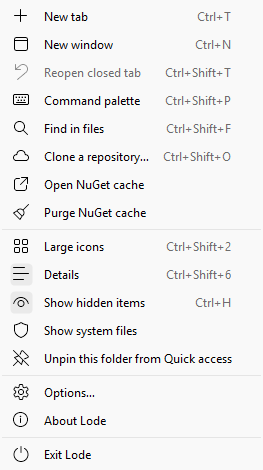
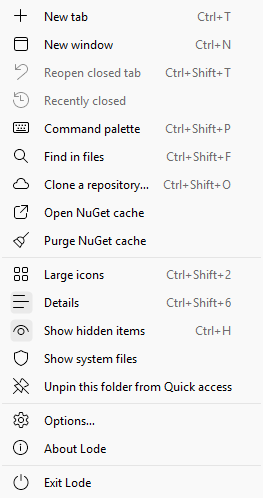
The tabs closed are one list for the whole of Lode, so Reopen closed tab (Ctrl+Shift+T) in any window brings back the tab closed most recently, in whichever window, into the window it is pressed in, and Recently closed, a submenu of the ⋯ menu and of a tab's right-click menu, lists them, the most re

diff --git a/src/Lode.Tests/Window/WindowsTests.cs b/src/Lode.Tests/Window/WindowsTests.cs
@@ -734,6 +734,108 @@ public class WindowsTests
         await Assert.That(form.CanReopenClosedTab).IsFalse();
     }
 
+    // The tabs closed are one list for every window: Ctrl+Shift+T in either brings back the one
+    // closed most recently, whichever window it was closed in, into the window it is pressed in.
+    [Test]
+    public async Task ClosedTabsReopenInAnyWindow()
+    {
+        using var fixture = Fixture.Create();
+        var settings = new Settings();
+        using var first = (QuietForm) await Show(fixture, settings, fixture.Root, fixture.At("Docs"));
+        using var second = (QuietForm) await Show(fixture, settings, fixture.Root, fixture.At("Source"));
+        first.CloseTab((TabPage) first.Views.Last().Parent!);
+        second.CloseTab((TabPage) second.Views.Last().Parent!);
+
+        first.Press(Keys.Control | Keys.Shift | Keys.T);
+        await Pump.Loaded(first.ActiveView!);
+        second.Press(Keys.Control | Keys.Shift | Keys.T);
+        await Pump.Loaded(second.ActiveView!);
+
+        await Assert.That(Titles(first)).IsEquivalentTo(["Projects", "Source"], CollectionOrdering.Matching);
+        await Assert.That(Titles(second)).IsEquivalentTo(["Projects", "Docs"], CollectionOrdering.Matching);
+        await Assert.That(first.CanReopenClosedTab).IsFalse();
+    }
+
+    // Recently closed, in the ⋯ menu and a tab's, lists the tabs closed in any window, the most
+    // recent first, each with its folder's icon. One picked opens again in the window whose menu
+    // it is, and leaves the list, wherever it was in it.
+    [Test]
+    public async Task RecentlyClosedListsTheTabsClosedNewestFirst()
+    {
+        using var fixture = Fixture.Create();
+        var settings = new Settings();
+        using var first = await Show(fixture, settings, fixture.Root, fixture.At("Docs"), fixture.At("Archive"));
+        using var second = await Show(fixture, settings, fixture.Root, fixture.At("Source"));
+        first.CloseTab(PageShowing(first, "Docs"));
+        second.CloseTab(PageShowing(second, "Source"));
+        first.CloseTab(PageShowing(first, "Archive"));
+
+        var inMenu = RecentlyClosedIn(first);
+        List<string> inTabMenu;
+        bool withIcons;
+        using (var tabMenu = second.TabMenu(second.Tabs.TabPages[0]))
+        {
+            var submenu = tabMenu.Items.OfType<ToolStripMenuItem>().Single(_ => _.Text == "Recently closed");
+            inTabMenu = submenu.DropDownItems.Cast<ToolStripItem>().Select(_ => _.Text!).ToList();
+            withIcons = submenu.DropDownItems.Cast<ToolStripItem>().All(_ => _.Image != null);
+        }
+
+        first.Commands.Menu()
+            .Single(_ => _?.Text == "Recently closed")!
+            .Children!
+            .Single(_ => _?.Text == "Source")!
+            .Action();
+        await Pump.Loaded(first.ActiveView!);
+
+        await Assert.That(inMenu).IsEquivalentTo(["Archive", "Source", "Docs"], CollectionOrdering.Matching);
+        await Assert.That(inTabMenu).IsEquivalentTo(["Archive", "Source", "Docs"], CollectionOrdering.Matching);
+        await Assert.That(withIcons).IsTrue();
+        await Assert.That(Titles(first)).IsEquivalentTo(["Projects", "Source"], CollectionOrdering.Matching);
+        await Assert.That(RecentlyClosedIn(second)).IsEquivalentTo(["Archive", "Docs"], CollectionOrdering.Matching);
+    }
+
+    // A window closed keeps its tabs as closed, in their order, so another window can bring them
+    // back, as does one closed by closing its last tab. Not one hidden in the tray, which keeps
+    // them, to come back with.
+    [Test]
+    public async Task ClosingAWindowKeepsItsTabsAsClosed()
+    {
+        using var fixture = Fixture.Create();
+        var settings = new Settings();
+        using var staying = await Show(fixture, settings, fixture.Root);
+        var closing = await Show(fixture, settings, fixture.At("Docs"), fixture.At("Source"));
+        var lastTabClosing = await Show(fixture, settings, fixture.At("Archive"));
+
+        closing.Close();
+        lastTabClosing.CloseTab(lastTabClosing.Tabs.TabPages[0]);
+        Application.DoEvents();
+        var kept = RecentlyClosedIn(staying);
+        MainForm.HideLastWindowOnClose = true;
+        try
+        {
+            staying.Close();
+        }
+        finally
+        {
+            MainForm.HideLastWindowOnClose = false;
+        }
+
+        await Assert.That(kept).IsEquivalentTo(["Archive", "Source", "Docs"], CollectionOrdering.Matching);
+        await Assert.That(lastTabClosing.IsDisposed).IsTrue();
+        await Assert.That(staying.Visible).IsFalse();
+        await Assert.That(RecentlyClosedIn(staying)).IsEquivalentTo(["Archive", "Source", "Docs"], CollectionOrdering.Matching);
+    }
+
+    static TabPage PageShowing(MainForm form, string name) =>
+        (TabPage) form.Views.Single(_ => Path.GetFileName(_.CurrentPath) == name).Parent!;
+
+    static List<string> RecentlyClosedIn(MainForm form) =>
+        form.Commands.Menu()
+            .Single(_ => _?.Text == "Recently closed")!
+            .Children!
+            .Select(_ => _!.Text)
+            .ToList();
+
     // With closing unused tabs on, a tab not looked at for the hours given closes, the one looked
     // at longest ago first, so Reopen closed tab brings back the other first. The tab the window
     // shows stays however long it has shown, and one opened in the background has the hours from
@@ -2123,6 +2225,7 @@ public class WindowsTests
                   New tab,
                   New window,
                   Reopen closed tab (disabled),
+                  Recently closed (disabled),
                   Command palette,
                   Find in files,
                   Clone a repository…,
@@ -2247,7 +2350,8 @@ public class WindowsTests
                     Close tabs to the right,
                     Close all tabs,
                     ----,
-                    Reopen closed tab (disabled)
+                    Reopen closed tab (disabled),
+                    Recently closed (disabled)
                   ],
                   notPinned: [
                     Duplicate tab,
@@ -2259,7 +2363,8 @@ public class WindowsTests
                     Close tabs to the right (disabled),
                     Close all tabs,
                     ----,
-                    Reopen closed tab (disabled)
+                    Reopen closed tab (disabled),
+                    Recently closed (disabled)
                   ]
                 }
                 """);

diff --git a/src/Lode/Window/MainForm.cs b/src/Lode/Window/MainForm.cs
@@ -51,10 +51,6 @@ class MainForm : Form
     // one when the window closes.
     Updates updates = Updates.Instance;
 
-    // Folders of tabs closed in this window, most recent last, for Ctrl+Shift+T.
-    List<string> closedTabs = [];
-    const int maximumClosedTabs = 20;
-
     // False for a window opened from another: it is placed beside that one rather than where
     // the last window to close was.
     bool restoreBounds = true;
@@ -847,6 +843,8 @@ class MainForm : Form
         }
     }
 
+    // Kept for every window's Reopen closed tab, not this one's alone. Find Results and the Diff
+    // tab have no folder to open again.
     void RememberClosed(TabPage page)
     {
         if (page.Controls.OfType<FolderView>().FirstOrDefault() is not { } view)
@@ -854,30 +852,51 @@ class MainForm : Form
             return;
         }
 
-        closedTabs.Add(view.CurrentPath);
-        if (closedTabs.Count > maximumClosedTabs)
+        settings.ClosedTabs.Add(view.CurrentPath);
+    }
+
+    // Closed for good, rather than hidden in the tray, from where it comes back as it was: its
+    // tabs are kept as closed, in their order, the last the most recent, as Close all tabs keeps
+    // them, so Ctrl+Shift+T in another window brings them back. None for a window whose last tab
+    // was dragged to another, which has none left.
+    protected override void OnFormClosed(FormClosedEventArgs args)
+    {
+        base.OnFormClosed(args);
+        foreach (var page in TabPages)
         {
-            closedTabs.RemoveAt(0);
+            RememberClosed(page);
         }
     }
 
-    internal bool CanReopenClosedTab => closedTabs.Count > 0;
+    internal bool CanReopenClosedTab => settings.ClosedTabs.Any;
 
     /// <summary>
-    /// Opens the most recently closed tab again, at the folder it was showing, or, where that
-    /// has gone since, the nearest folder above it still there, as a tab whose folder is
-    /// deleted goes to. Somewhere on the network is taken on trust, as asking after it could
-    /// keep the window waiting.
+    /// Opens the tab closed most recently, in any window, again in this one: see
+    /// <see cref="ReopenClosedTab(ClosedTab)"/>.
     /// </summary>
     internal void ReopenClosedTab()
     {
-        if (closedTabs.Count == 0)
+        if (settings.ClosedTabs.TakeLast() is { } last)
         {
-            return;
+            Reopen(last);
         }
+    }
 
-        var path = closedTabs[^1];
-        closedTabs.RemoveAt(closedTabs.Count - 1);
+    /// <summary>
+    /// Opens <paramref name="tab"/> again in this window, picked from Recently closed, at the
+    /// folder it was showing, or, where that has gone since, the nearest folder above it still
+    /// there, as a tab whose folder is deleted goes to. Somewhere on the network is taken on
+    /// trust, as asking after it could keep the window waiting.
+    /// </summary>
+    internal void ReopenClosedTab(ClosedTab tab)
+    {
+        settings.ClosedTabs.Take(tab);
+        Reopen(tab);
+    }
+
+    void Reopen(ClosedTab tab)
+    {
+        var path = tab.Folder;
         if (!Locations.IsRemote(path) &&
             FolderView.NearestFolder(path) is { } nearest)
         {
@@ -885,6 +904,23 @@ class MainForm : Form
         }
 
         AddTab(path, true, intoZip: true);
+    }
+
+    /// <summary>
+    /// What Recently closed lists, in the ⋯ menu and a tab's: the tabs closed in any window, the
+    /// most recent first, each named as its tab was, told apart from another of the same name,
+    /// with its folder's icon, and opening it again here.
+    /// </summary>
+    internal List<QuickMenu.Command?> RecentlyClosed()
+    {
+        var closed = settings.ClosedTabs.NewestFirst();
+        var labels = Locations.Labels(closed.Select(_ => _.Folder));
+        return closed
+            .Select(_ => (QuickMenu.Command?) new QuickMenu.Command(labels[_.Folder], () => ReopenClosedTab(_))
+            {
+                ShellIcon = TabIcon(_.Folder)
+            })
+            .ToList();
     }
 
     static MainForm? WindowOf(Control? control) =>
@@ -1673,7 +1709,28 @@ class MainForm : Form
         menu.Items.Add("Close all tabs", null, (_, _) => CloseAllTabs());
         menu.Items.Add(new ToolStripSeparator());
         menu.Items.Add(new ToolStripMenuItem("Reopen closed tab", null, (_, _) => ReopenClosedTab()) { Enabled = CanReopenClosedTab, ShortcutKeyDisplayString = "Ctrl+Shift+T" });
+        menu.Items.Add(RecentlyClosedItem(menu));
         return menu;
+    }
+
+    // Recently closed as a submenu of a menu built from items, as the tab's is, run as clicked
+    // as its other items are, the icons drawn for it let go of with the menu.
+    ToolStripMenuItem RecentlyClosedItem(ToolStripDropDown menu)
+    {
+        var item = new ToolStripMenuItem("Recently closed");
+        var images = new List<Image>();
+        var iconSize = menu.LogicalToDeviceUnits(16);
+        item.DropDown.ImageScalingSize = new(iconSize, iconSize);
+        QuickMenu.AddItems(item.DropDownItems, RecentlyClosed(), _ => _(), iconSize, images);
+        item.Enabled = item.DropDownItems.Count > 0;
+        menu.Disposed += (_, _) =>
+        {
+            foreach (var image in images)
+            {
+                image.Dispose();
+            }
+        };
+        return item;
     }
 
     // As Find Results shows: what was found so far in the status bar, and none of what is a

diff --git a/src/Lode/Window/ClosedTabs.cs b/src/Lode/Window/ClosedTabs.cs
@@ -1,0 +1,62 @@
+/// <summary>
+/// The tabs closed while Lode runs, in any window, for Reopen closed tab (Ctrl+Shift+T) and the
+/// Recently closed submenu to bring back in whichever window they are asked in: a tab closed,
+/// one closed as unused, and those of a window closed, its last tab say. One list for every
+/// window, as it is kept with the settings they share (see <see cref="Settings.ClosedTabs"/>),
+/// and not saved: Lode keeps running in the tray, and a start opens the tabs that were open
+/// rather than those closed before.
+/// </summary>
+sealed class ClosedTabs
+{
+    const int maximumKept = 20;
+
+    // Most recent last.
+    List<ClosedTab> tabs = [];
+
+    public void Add(string folder)
+    {
+        tabs.Add(new(folder));
+        if (tabs.Count > maximumKept)
+        {
+            tabs.RemoveAt(0);
+        }
+    }
+
+    public bool Any => tabs.Count > 0;
+
+    /// <summary>
+    /// The tabs kept, the most recently closed first, as the submenu lists them.
+    /// </summary>
+    public List<ClosedTab> NewestFirst() =>
+        tabs.AsEnumerable().Reverse().ToList();
+
+    /// <summary>
+    /// The most recently closed, no longer kept, or null with none.
+    /// </summary>
+    public ClosedTab? TakeLast()
+    {
+        if (tabs.Count == 0)
+        {
+            return null;
+        }
+
+        var last = tabs[^1];
+        tabs.RemoveAt(tabs.Count - 1);
+        return last;
+    }
+
+    /// <summary>
+    /// <paramref name="tab"/>, reopened from the submenu, no longer kept.
+    /// </summary>
+    public void Take(ClosedTab tab) =>
+        tabs.Remove(tab);
+}
+
+/// <summary>
+/// A tab closed, by the folder it showed. Each closing is one of its own, a folder closed twice
+/// being two, so one reopened from the submenu is the one picked.
+/// </summary>
+sealed class ClosedTab(string folder)
+{
+    public string Folder => folder;
+}

diff --git a/src/Lode/Options/Settings.cs b/src/Lode/Options/Settings.cs
@@ -463,6 +463,13 @@ sealed class Settings
         }
     }
 
+    /// <summary>
+    /// The tabs closed while Lode runs, in any window, for each window's Reopen closed tab to
+    /// reach. Kept here, as every window shares the settings, but never saved: see
+    /// <see cref="global::ClosedTabs"/>.
+    /// </summary>
+    internal ClosedTabs ClosedTabs { get; } = new();
+
     // Tabs nobody has looked at for UnusedTabHours are closed, as other apps opening folders in
     // Lode leave a tab for each. Off unless chosen in Options. See MainForm.CloseUnusedTabs.
     public bool CloseUnusedTabs { get; set; }

diff --git a/src/Lode/Window/Commands.cs b/src/Lode/Window/Commands.cs
@@ -60,6 +60,11 @@ sealed class Commands
                 Glyph = Icons.Reopen,
                 Shortcut = "Ctrl+Shift+T"
             },
+            QuickMenu.Submenu("Recently closed", window.RecentlyClosed()) with
+            {
+                Enabled = window.CanReopenClosedTab,
+                Glyph = Icons.History
+            },
             new("Command palette", ShowPalette)
             {
                 Glyph = Icons.CommandPalette,

diff --git a/readme.md b/readme.md
@@ -137,7 +137,7 @@ Each has **Open in Lode**, and **Revert** to give the links back.
 
    ![The Button actions page of Options](src/Lode.Tests/Options/OptionsFormTests.ButtonActionsPage.verified.png)
 
- * <a id="tabs"></a>**Tabs**, each with its own history: right-click **Back** or **Forward** for where it goes, to go several steps at once, and a folder deleted since is passed over. Right-click one to duplicate, pin or close it, or the others. **Reopen closed tab** (Ctrl+Shift+T) brings back the last closed. A tab follows its folder when it is renamed or moved, and goes up when it is deleted. Drag a tab along the row to reorder it, off the row for a window of its own, or onto another window to move it there. **Close tabs not looked at for**, on the **General** page of Options, closes tabs unused for the hours given.
+ * <a id="tabs"></a>**Tabs**, each with its own history: right-click **Back** or **Forward** for where it goes, to go several steps at once, and a folder deleted since is passed over. Right-click one to duplicate, pin or close it, or the others. **Reopen closed tab** (Ctrl+Shift+T) brings back the last closed, in whichever window it was closed, a window's own tabs among them once it is closed; **Recently closed**, in the ⋯ menu and a tab's right-click menu, lists them, the most recent first, to bring back any one. They are kept while Lode runs, not from one start to the next. A tab follows its folder when it is renamed or moved, and goes up when it is deleted. Drag a tab along the row to reorder it, off the row for a window of its own, or onto another window to move it there. **Close tabs not looked at for**, on the **General** page of Options, closes tabs unused for the hours given.
 
    ![Tabs](src/Lode.Tests/Window/MainFormTests.Tabs.verified.png)
 
